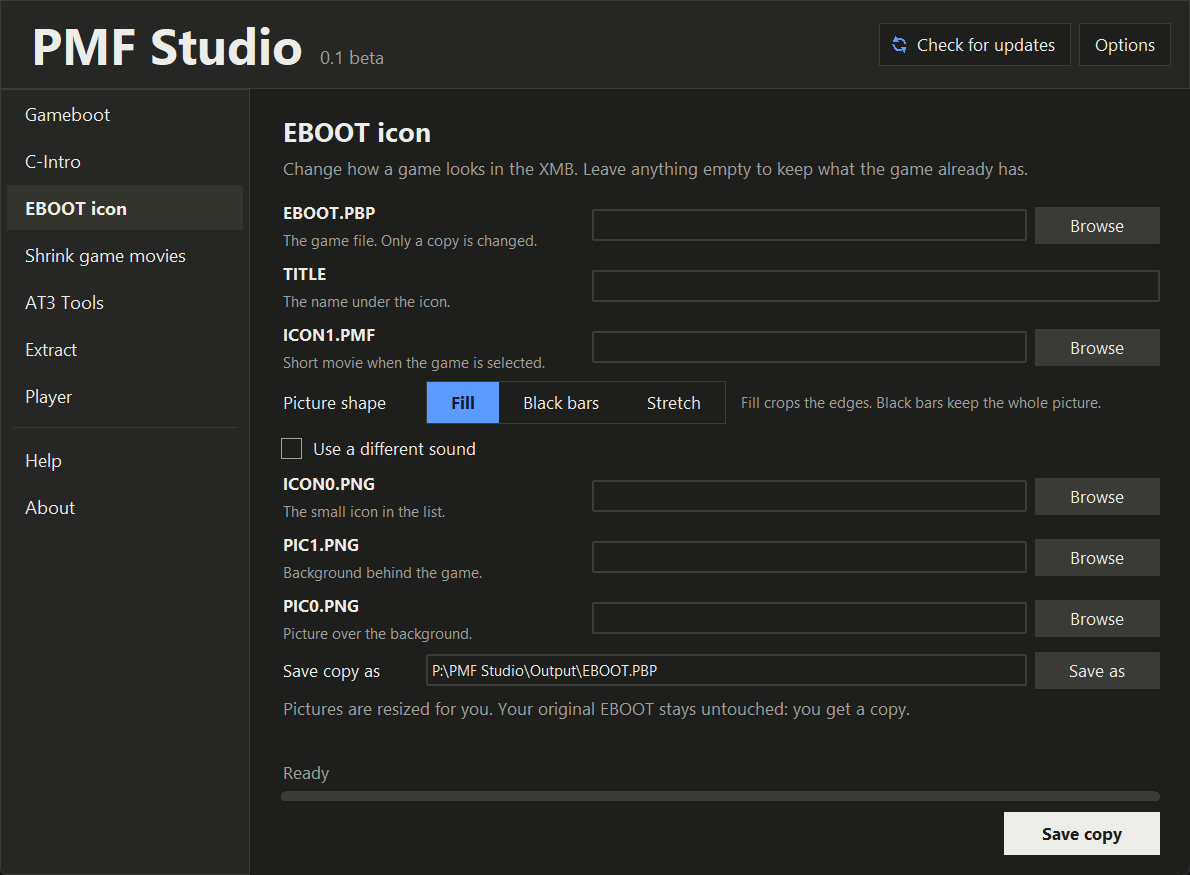
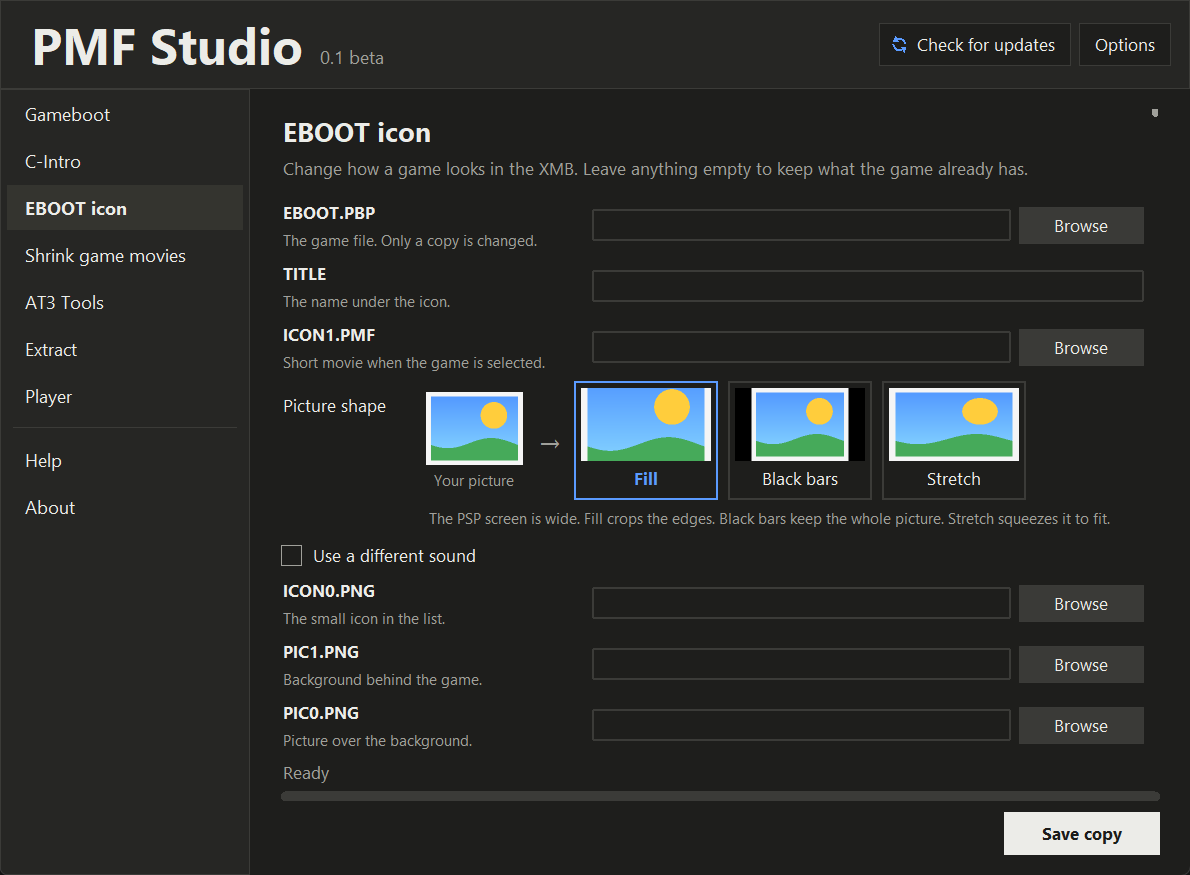
Show a small picture for each picture-shape choice

Changed region(s): [[0.2176, 0.3703, 0.995, 0.864], [0.8395, 0.216, 0.995, 0.2777], [0.9017, 0.3703, 0.995, 0.432]]

diff --git a/pmfstudio/widgets.py b/pmfstudio/widgets.py
@@ -1,4 +1,5 @@
 """Hand-drawn controls (sliders, round icon buttons, tick boxes, segmented choice) so the window looks current, not like old Windows."""
+import math
 import tkinter as tk
 
 from .theme import T, S, mix
@@ -205,6 +206,93 @@ class Segmented(tk.Frame):
         for v, lab in self.items.items():
             on = self.var.get() == v
             lab.configure(bg=T.accent if on else T.bg, fg=T.on_accent if on else T.ink, font=(FONT, 10, "bold" if on else "normal"))
+
+
+_SHAPE_CACHE = {}
+
+
+def _example_pixel(u, v):
+    """a made-up 4:3 picture (sky, sun, hill, white edge line); u and v run 0..1 across it. The round sun shows squashing."""
+    if u < 0.05 or u > 0.95 or v < 0.06 or v > 0.94:
+        return (245, 245, 245)
+    if ((u - 0.70) * 4) ** 2 + ((v - 0.32) * 3) ** 2 < 0.30:
+        return (255, 205, 60)
+    if v > 0.70 + 0.07 * math.sin(u * 7):
+        return (70, 170, 90)
+    return (int(80 + 60 * v), int(150 + 70 * v), 255)
+
+
+def _shape_image(kind, w):
+    """what a 4:3 picture looks like on the PSP's wide screen with each choice: 'source' (as it is), 'crop', 'pad', 'stretch'"""
+    key = (kind, w)
+    if key in _SHAPE_CACHE:
+        return _SHAPE_CACHE[key]
+    h = round(w * 9 / 16)
+    sw, sh = (w * 3 // 4, h) if kind == "source" else (w, h)
+    img = tk.PhotoImage(width=sw, height=sh)
+    rows = []
+    for y in range(sh):
+        row = []
+        for x in range(sw):
+            r = g = b = n = 0
+            for dy in (0.25, 0.75):                                   # 2 x 2 samples per pixel: smoother edges
+                for dx in (0.25, 0.75):
+                    px, py = x + dx, y + dy
+                    if kind == "source":
+                        c = _example_pixel(px / sw, py / sh)
+                    elif kind == "crop":                              # picture as wide as the screen, top and bottom cut off
+                        c = _example_pixel(px / w, 0.5 + (py - h / 2) / (w * 3 / 4))
+                    elif kind == "pad":                               # picture as tall as the screen, black bars at the sides
+                        u = 0.5 + (px - w / 2) / (h * 4 / 3)
+                        c = _example_pixel(u, py / h) if 0 <= u <= 1 else (0, 0, 0)
+                    else:                                             # stretch: pulled to the screen's shape
+                        c = _example_pixel(px / w, py / h)
+                    r, g, b, n = r + c[0], g + c[1], b + c[2], n + 1
+            row.append("#%02x%02x%02x" % (r // n, g // n, b // n))
+        rows.append("{" + " ".join(row) + "}")
+    img.put(" ".join(rows))
+    _SHAPE_CACHE[key] = img
+    return img
+
+
+class FitPicker(tk.Frame):
+    """'Picture shape': the example picture, then one small picture per choice showing what you get (Fill / Black bars / Stretch)."""
+
+    def __init__(self, parent, variable, command=None):
+        super().__init__(parent, bg=T.bg)
+        self.var, self.command, self.cards = variable, command, {}
+        w = S(104)
+        src = tk.Frame(self, bg=T.bg)
+        src.pack(side="left", padx=(0, S(6)))
+        tk.Label(src, image=_shape_image("source", w), bd=0, bg=T.line, padx=1, pady=1).pack(pady=(S(4), S(2)))
+        tk.Label(src, text="Your picture", bg=T.bg, fg=T.muted, font=(FONT, 9)).pack()
+        tk.Label(self, text="→", bg=T.bg, fg=T.muted, font=(FONT, 16)).pack(side="left", padx=S(4))
+        for value, name in (("crop", "Fill"), ("pad", "Black bars"), ("stretch", "Stretch")):
+            card = tk.Frame(self, bg=T.line, padx=2, pady=2, cursor="hand2")
+            card.pack(side="left", padx=S(4))
+            inner = tk.Frame(card, bg=T.bg, padx=S(4), pady=S(4))
+            inner.pack()
+            pic = tk.Label(inner, image=_shape_image(value, w), bd=0, bg=T.line, padx=1, pady=1)
+            pic.pack()
+            lab = tk.Label(inner, text=name, bg=T.bg, font=(FONT, 10))
+            lab.pack(pady=(S(3), 0))
+            for widget in (card, inner, pic, lab):
+                widget.bind("<Button-1>", lambda e, v=value: self.choose(v))
+            self.cards[value] = (card, inner, lab)
+        self.refresh()
+
+    def choose(self, v):
+        if self.var.get() != v:
+            self.var.set(v)
+            self.refresh()
+            if self.command:
+                self.command()
+
+    def refresh(self):
+        for v, (card, inner, lab) in self.cards.items():
+            on = self.var.get() == v
+            card.configure(bg=T.accent if on else T.line)
+            lab.configure(fg=T.accent if on else T.ink, font=(FONT, 10, "bold" if on else "normal"))
 
 
 class ScrollArea(tk.Frame):

diff --git a/pmfstudio/app.py b/pmfstudio/app.py
@@ -14,7 +14,7 @@ from . import VERSION, STAGE, REPO, jobs, settings, updater
 from . import paths
 from .paths import app_dir, find_tool
 from .theme import T, S, set_scale, set_theme, mix
-from .widgets import Check, ProgressBar, ScrollArea, Segmented, Slider, TrimBar, STATE_COLORS, clock
+from .widgets import Check, FitPicker, ProgressBar, ScrollArea, Segmented, Slider, TrimBar, STATE_COLORS, clock
 from pmfkit import fit
 from pmfkit import cli
 from pmfkit.cli import BuildError, probe_seconds
@@ -328,10 +328,13 @@ class App(tk.Tk):
         """how a movie that isn't the PSP's shape is made to fit"""
         f = tk.Frame(parent or self.main, bg=T.bg)
         f.pack(fill="x", pady=3)
-        tk.Label(f, text="Picture shape", width=14, anchor="w", bg=T.bg, fg=T.ink, font=(FONT, 10)).pack(side="left")
+        tk.Label(f, text="Picture shape", width=14, anchor="nw", bg=T.bg, fg=T.ink, font=(FONT, 10)).pack(side="left", anchor="n", pady=(S(8), 0))
         self.vars["fit"] = tk.StringVar(value="crop")
-        Segmented(f, [("crop", "Fill"), ("pad", "Black bars"), ("stretch", "Stretch")], self.vars["fit"]).pack(side="left")
-        tk.Label(f, text="Fill crops the edges. Black bars keep the whole picture.", bg=T.bg, fg=T.muted, font=(FONT, 9)).pack(side="left", padx=12)
+        col = tk.Frame(f, bg=T.bg)
+        col.pack(side="left", fill="x", expand=True)
+        FitPicker(col, self.vars["fit"]).pack(anchor="w")
+        tk.Label(col, text="The PSP screen is wide. Fill crops the edges. Black bars keep the whole picture. Stretch squeezes it to fit.", bg=T.bg, fg=T.muted,
+                 font=(FONT, 9), justify="left", anchor="w", wraplength=S(620)).pack(anchor="w", pady=(S(4), 0))
 
     # ---------- choosing the part of a long movie ----------
     def trim_panel(self, target, parent=None):
